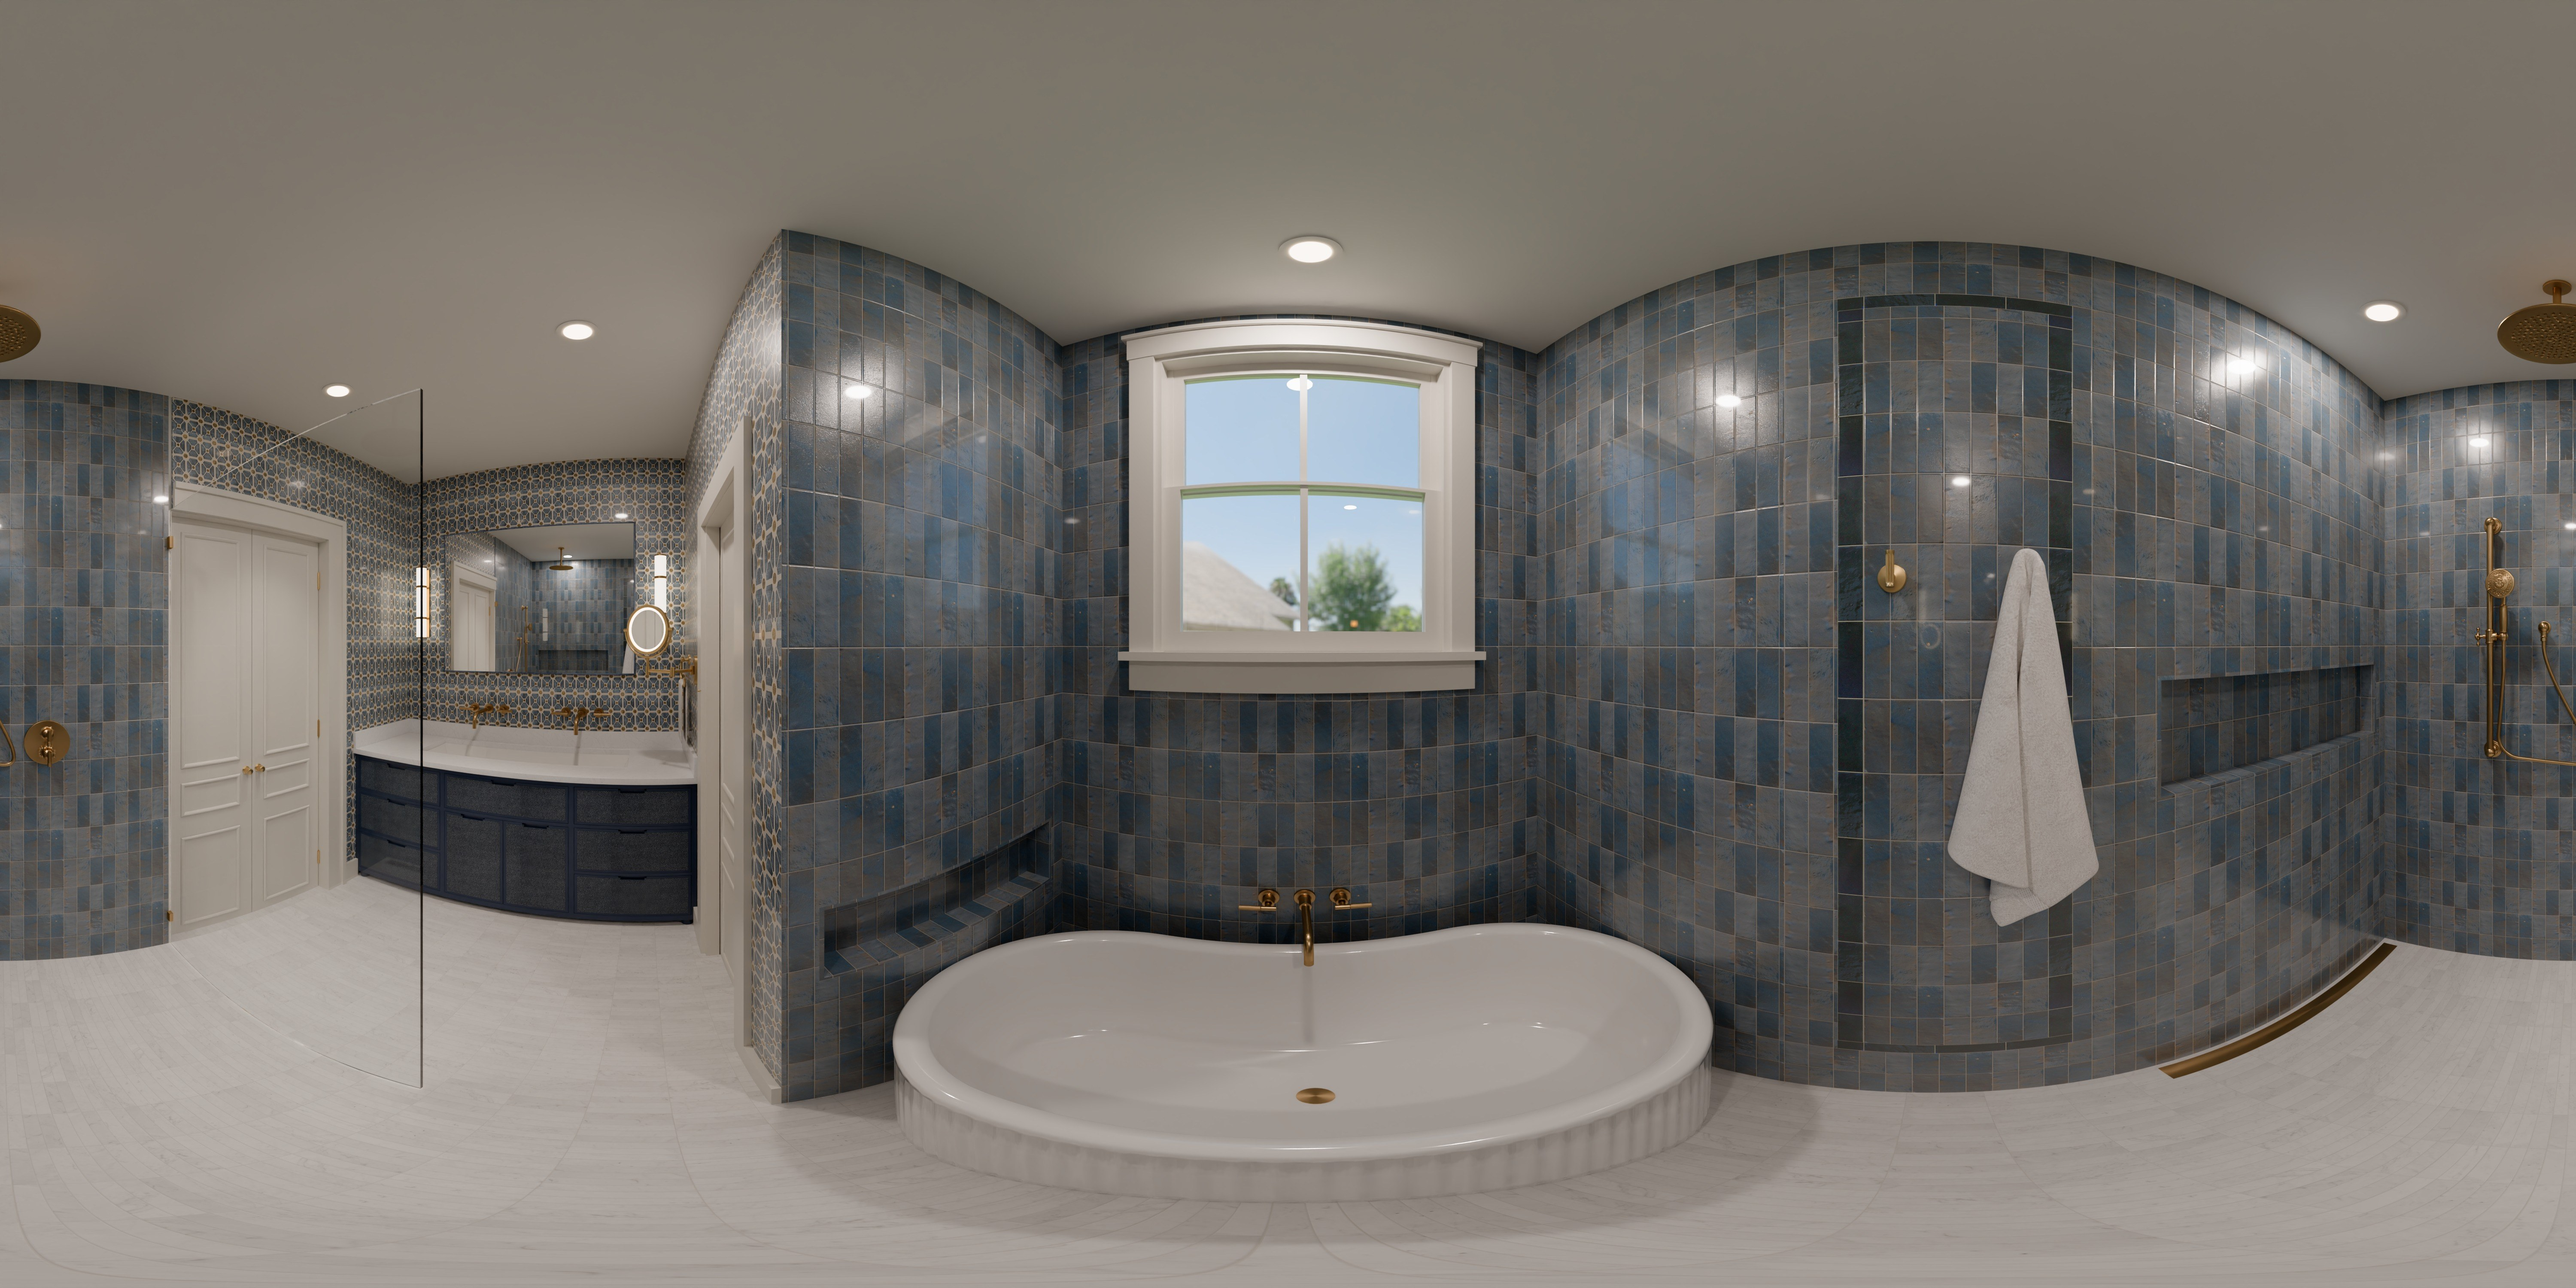
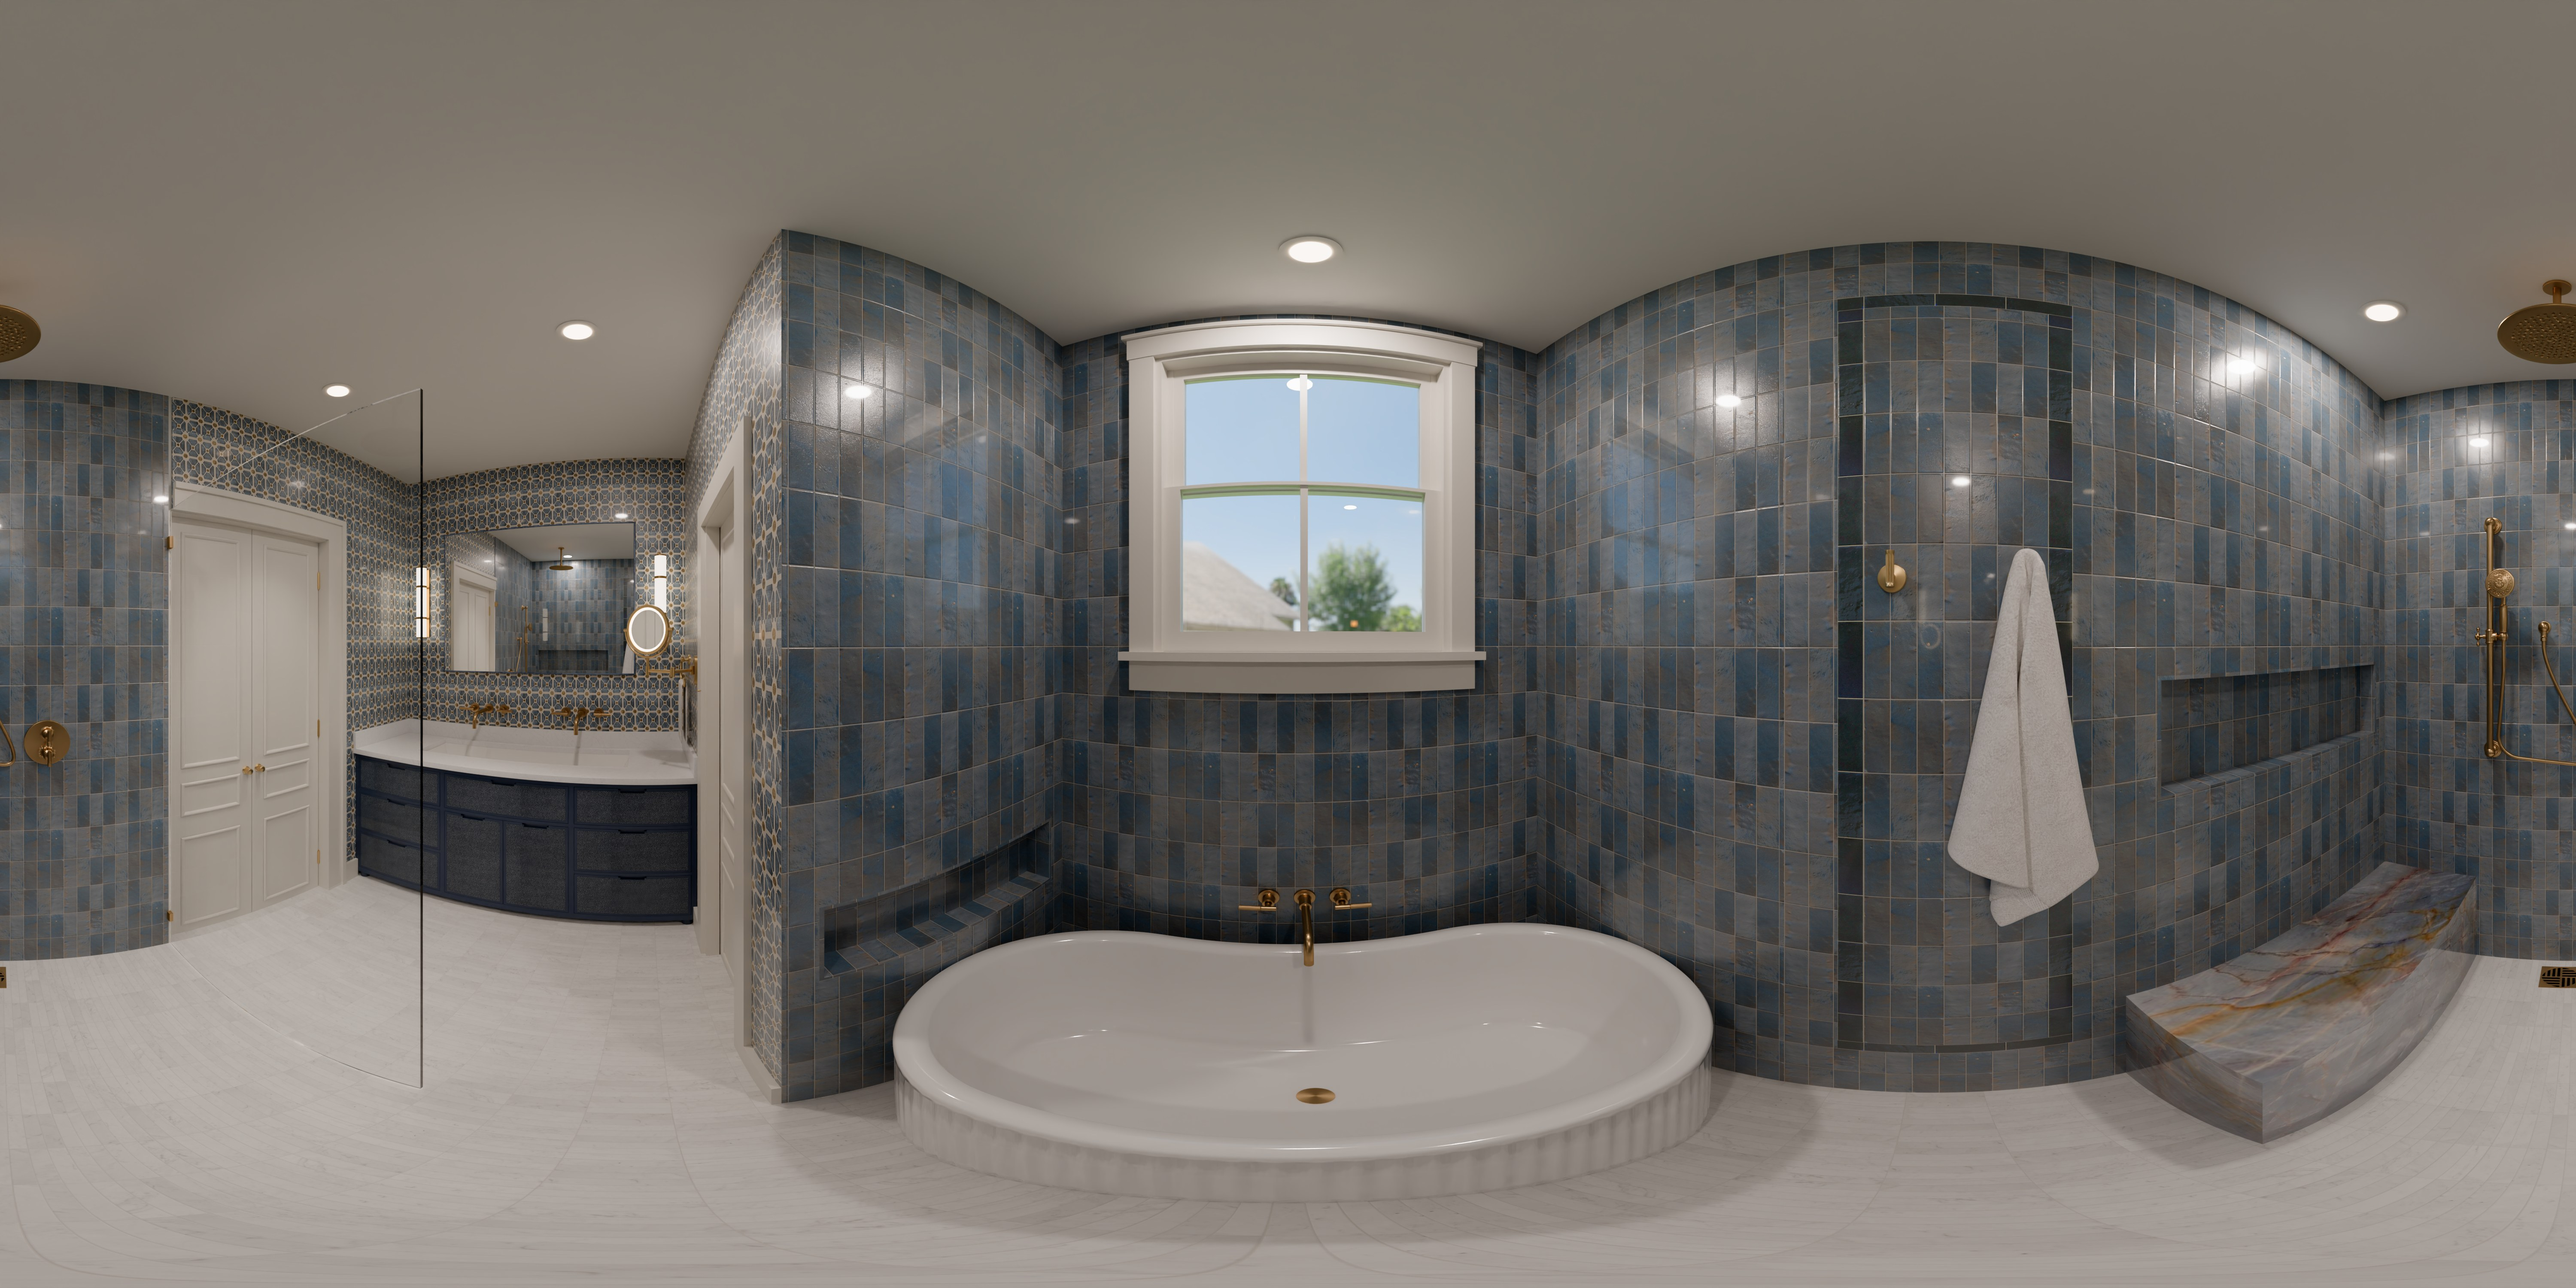
Bath: shower bench - updated 360s + bench photo hotspot (2/2)

Changed region(s): [[0.8103, 0.682, 1.0, 0.899]]

diff --git a/bath_tour.js b/bath_tour.js
@@ -1,1 +1,1 @@
-window.TOUR = {"project": "629 Burdette St · Primary Bath", "default_node": "bath01", "default_floor": "opt1", "default_doors": "closed", "floor_label": "Walls", "floors": {"opt1": "Option 1 · Tiled walls"}, "doors": {"closed": "-"}, "client": {"name": "Maureen Stevens Design", "url": "https://www.maureenstevens.com/"}, "times": ["day"], "nodes": [{"id": "bath01", "label": "Vanity", "view": {"yaw": -45, "pitch": -4, "hfov": 110}, "links": [{"to": "bath02", "label": "Tub & Shower", "yaw": 54.35, "pitch": -43.2}], "appliances": [], "photos": [{"still": "Bath_Still_02_Vanity", "label": "Double Trough Vanity", "yaw": -75.12, "pitch": -18.56}, {"still": "Bath_Still_03_Vanity_Detail", "label": "Satin Bronze Faucet", "yaw": -90.62, "pitch": -27.12}, {"still": "Bath_Still_05_Shower", "label": "Walk-in Shower", "yaw": 90.94, "pitch": -7.55}, {"still": "Bath_Still_08_Magnifier_Ring", "label": "Towel Ring & Magnifier", "yaw": -30.72, "pitch": -3.41}, {"still": "Bath_Still_09_Shower_Niche", "label": "Shower Fixtures & Niche", "yaw": 105.36, "pitch": -5.83}], "panos": {"floor-opt1__doors-closed": {"full": "pano_bath01_opt1.jpg", "mobile": "pano_bath01_opt1_m.jpg"}}}, {"id": "bath02", "label": "Tub & Shower", "view": {"yaw": 40, "pitch": -4, "hfov": 110}, "links": [{"to": "bath01", "label": "Vanity", "yaw": -125.65, "pitch": -43.2}], "appliances": [], "photos": [{"still": "Bath_Still_01_Hero", "label": "The Primary Bath", "yaw": 26.16, "pitch": -38.03}, {"still": "Bath_Still_04_Tub_Window", "label": "Tub & Window", "yaw": 1.86, "pitch": -19.06}, {"still": "Bath_Still_06_Border_Wall", "label": "Border Wall & Robe Hooks", "yaw": 93.46, "pitch": -8.85}, {"still": "Bath_Still_07_Hooks_Detail", "label": "Robe Hook", "yaw": 84.36, "pitch": 9.18}], "panos": {"floor-opt1__doors-closed": {"full": "pano_bath02_opt1.jpg", "mobile": "pano_bath02_opt1_m.jpg"}}}], "stills": [{"id": "Bath_Still_01_Hero", "caption": "The Primary Bath", "src": "still_Bath_Still_01_Hero.jpg", "thumb": "thumb_Bath_Still_01_Hero.jpg", "w": 2400, "h": 1600}, {"id": "Bath_Still_02_Vanity", "caption": "Double Trough Vanity", "src": "still_Bath_Still_02_Vanity.jpg", "thumb": "thumb_Bath_Still_02_Vanity.jpg", "w": 1920, "h": 2400}, {"id": "Bath_Still_03_Vanity_Detail", "caption": "Satin Bronze Faucet", "src": "still_Bath_Still_03_Vanity_Detail.jpg", "thumb": "thumb_Bath_Still_03_Vanity_Detail.jpg", "w": 2400, "h": 1600}, {"id": "Bath_Still_04_Tub_Window", "caption": "Tub & Window", "src": "still_Bath_Still_04_Tub_Window.jpg", "thumb": "thumb_Bath_Still_04_Tub_Window.jpg", "w": 1600, "h": 2400}, {"id": "Bath_Still_05_Shower", "caption": "Walk-in Shower", "src": "still_Bath_Still_05_Shower.jpg", "thumb": "thumb_Bath_Still_05_Shower.jpg", "w": 2400, "h": 1600}, {"id": "Bath_Still_06_Border_Wall", "caption": "Border Wall & Robe Hooks", "src": "still_Bath_Still_06_Border_Wall.jpg", "thumb": "thumb_Bath_Still_06_Border_Wall.jpg", "w": 1920, "h": 2400}, {"id": "Bath_Still_07_Hooks_Detail", "caption": "Robe Hook", "src": "still_Bath_Still_07_Hooks_Detail.jpg", "thumb": "thumb_Bath_Still_07_Hooks_Detail.jpg", "w": 1920, "h": 2400}, {"id": "Bath_Still_08_Magnifier_Ring", "caption": "Towel Ring & Magnifier", "src": "still_Bath_Still_08_Magnifier_Ring.jpg", "thumb": "thumb_Bath_Still_08_Magnifier_Ring.jpg", "w": 1920, "h": 2400}, {"id": "Bath_Still_09_Shower_Niche", "caption": "Shower Fixtures & Niche", "src": "still_Bath_Still_09_Shower_Niche.jpg", "thumb": "thumb_Bath_Still_09_Shower_Niche.jpg", "w": 2400, "h": 1600}]};
+window.TOUR = {"project": "629 Burdette St · Primary Bath", "default_node": "bath01", "default_floor": "opt1", "default_doors": "closed", "floor_label": "Walls", "floors": {"opt1": "Option 1 · Tiled walls"}, "doors": {"closed": "-"}, "client": {"name": "Maureen Stevens Design", "url": "https://www.maureenstevens.com/"}, "times": ["day"], "nodes": [{"id": "bath01", "label": "Vanity", "view": {"yaw": -45, "pitch": -4, "hfov": 110}, "links": [{"to": "bath02", "label": "Tub & Shower", "yaw": 54.35, "pitch": -43.2}], "appliances": [], "photos": [{"still": "Bath_Still_02_Vanity", "label": "Double Trough Vanity", "yaw": -75.12, "pitch": -18.56}, {"still": "Bath_Still_03_Vanity_Detail", "label": "Satin Bronze Faucet", "yaw": -90.62, "pitch": -27.12}, {"still": "Bath_Still_05_Shower", "label": "Walk-in Shower", "yaw": 90.94, "pitch": -7.55}, {"still": "Bath_Still_08_Magnifier_Ring", "label": "Towel Ring & Magnifier", "yaw": -30.72, "pitch": -3.41}, {"still": "Bath_Still_09_Shower_Niche", "label": "Shower Fixtures & Niche", "yaw": 105.36, "pitch": -5.83}], "panos": {"floor-opt1__doors-closed": {"full": "pano_bath01_opt1.jpg", "mobile": "pano_bath01_opt1_m.jpg"}}}, {"id": "bath02", "label": "Tub & Shower", "view": {"yaw": 40, "pitch": -4, "hfov": 110}, "links": [{"to": "bath01", "label": "Vanity", "yaw": -125.65, "pitch": -43.2}], "appliances": [], "photos": [{"still": "Bath_Still_01_Hero", "label": "The Primary Bath", "yaw": 26.16, "pitch": -38.03}, {"still": "Bath_Still_04_Tub_Window", "label": "Tub & Window", "yaw": 1.86, "pitch": -19.06}, {"still": "Bath_Still_06_Border_Wall", "label": "Border Wall & Robe Hooks", "yaw": 93.46, "pitch": -8.85}, {"still": "Bath_Still_07_Hooks_Detail", "label": "Robe Hook", "yaw": 84.36, "pitch": 9.18}, {"still": "Bath_Still_10_Bench_Niche", "label": "Shower Bench & Niche", "yaw": 148.17, "pitch": -41.48}], "panos": {"floor-opt1__doors-closed": {"full": "pano_bath02_opt1.jpg", "mobile": "pano_bath02_opt1_m.jpg"}}}], "stills": [{"id": "Bath_Still_01_Hero", "caption": "The Primary Bath", "src": "still_Bath_Still_01_Hero.jpg", "thumb": "thumb_Bath_Still_01_Hero.jpg", "w": 2400, "h": 1600}, {"id": "Bath_Still_02_Vanity", "caption": "Double Trough Vanity", "src": "still_Bath_Still_02_Vanity.jpg", "thumb": "thumb_Bath_Still_02_Vanity.jpg", "w": 1920, "h": 2400}, {"id": "Bath_Still_03_Vanity_Detail", "caption": "Satin Bronze Faucet", "src": "still_Bath_Still_03_Vanity_Detail.jpg", "thumb": "thumb_Bath_Still_03_Vanity_Detail.jpg", "w": 2400, "h": 1600}, {"id": "Bath_Still_04_Tub_Window", "caption": "Tub & Window", "src": "still_Bath_Still_04_Tub_Window.jpg", "thumb": "thumb_Bath_Still_04_Tub_Window.jpg", "w": 1600, "h": 2400}, {"id": "Bath_Still_05_Shower", "caption": "Walk-in Shower", "src": "still_Bath_Still_05_Shower.jpg", "thumb": "thumb_Bath_Still_05_Shower.jpg", "w": 2400, "h": 1600}, {"id": "Bath_Still_06_Border_Wall", "caption": "Border Wall & Robe Hooks", "src": "still_Bath_Still_06_Border_Wall.jpg", "thumb": "thumb_Bath_Still_06_Border_Wall.jpg", "w": 1920, "h": 2400}, {"id": "Bath_Still_07_Hooks_Detail", "caption": "Robe Hook", "src": "still_Bath_Still_07_Hooks_Detail.jpg", "thumb": "thumb_Bath_Still_07_Hooks_Detail.jpg", "w": 1920, "h": 2400}, {"id": "Bath_Still_08_Magnifier_Ring", "caption": "Towel Ring & Magnifier", "src": "still_Bath_Still_08_Magnifier_Ring.jpg", "thumb": "thumb_Bath_Still_08_Magnifier_Ring.jpg", "w": 1920, "h": 2400}, {"id": "Bath_Still_09_Shower_Niche", "caption": "Shower Fixtures & Niche", "src": "still_Bath_Still_09_Shower_Niche.jpg", "thumb": "thumb_Bath_Still_09_Shower_Niche.jpg", "w": 2400, "h": 1600}, {"id": "Bath_Still_10_Bench_Niche", "caption": "Shower Bench & Niche", "src": "still_Bath_Still_10_Bench_Niche.jpg", "thumb": "thumb_Bath_Still_10_Bench_Niche.jpg", "w": 2400, "h": 1600}]};
